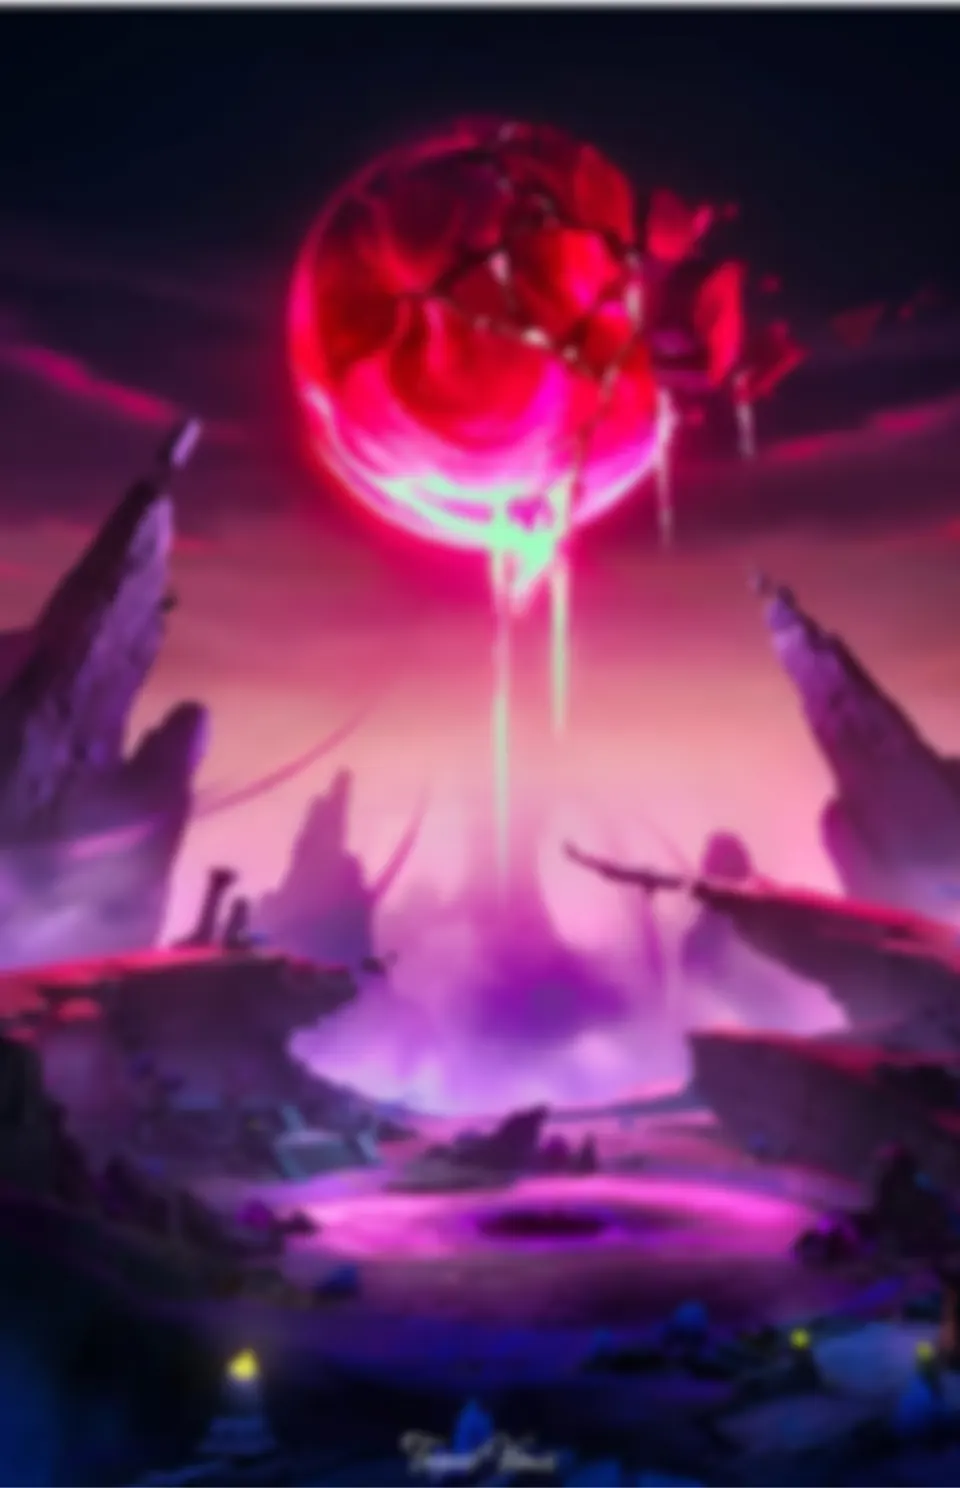
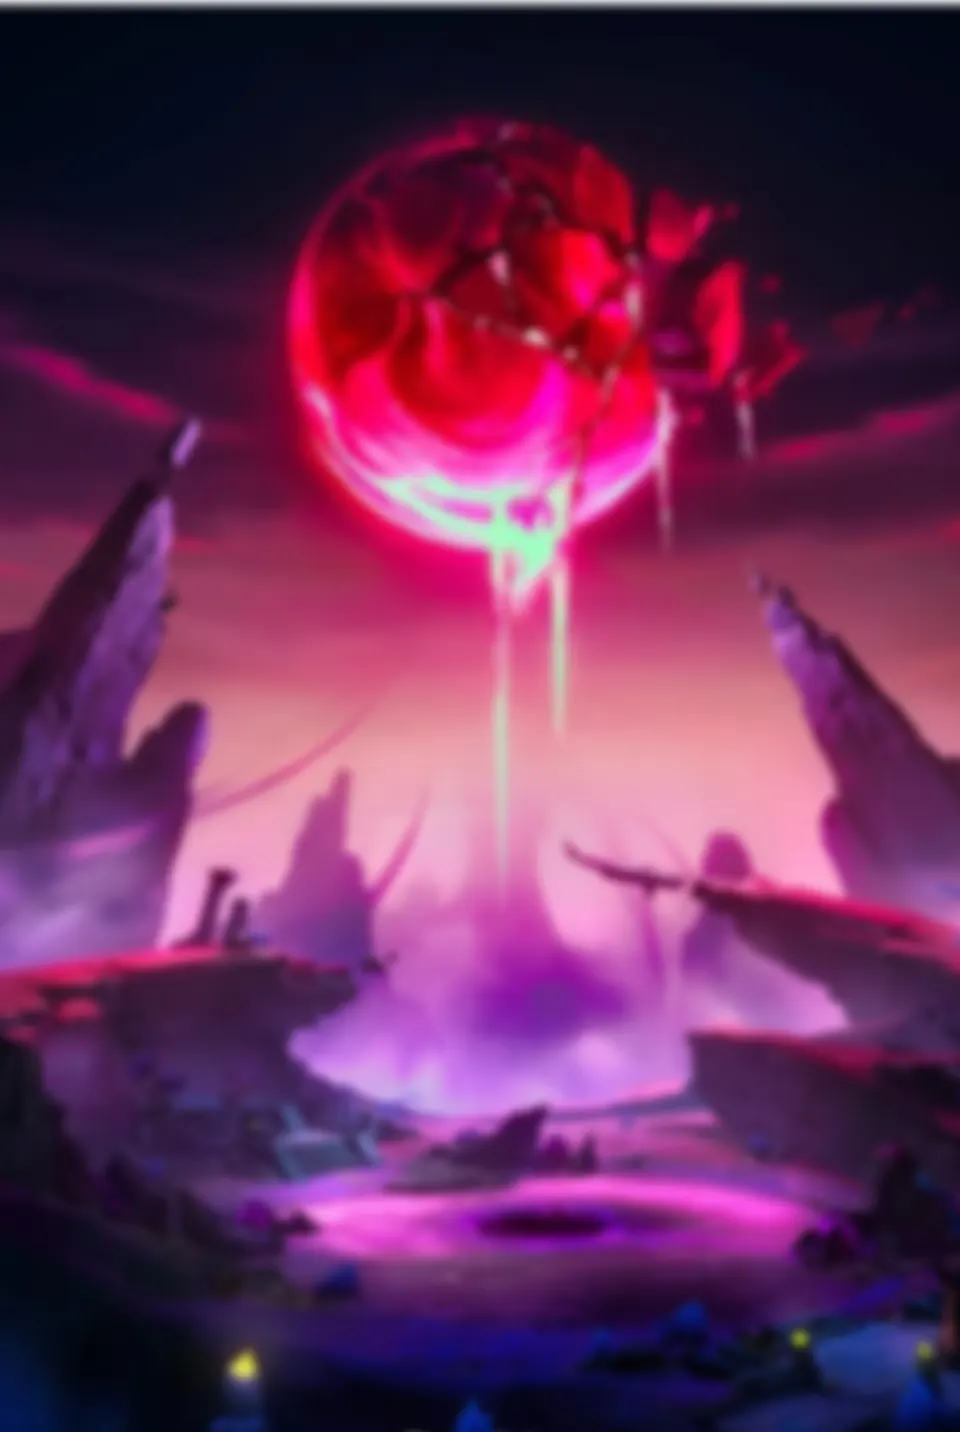
Хэллоуин: главная доведена до макета, правки визуальных багов
Масштаб главной под макет (заголовки, карточки, плитки 150px, ворота),
тыква в логотипе и мыши у надписи, подвал с орнаментом вместо снега,
светлые рамки карточек. Гирлянда больше не закрывает заголовки
внутренних страниц и строку фазы в баннере. Фон без водяного знака.

diff --git a/src/styles/season-halloween.css b/src/styles/season-halloween.css
@@ -6,6 +6,67 @@
   --top-glass: rgb(7 3 12 / .88); --feature-glass: linear-gradient(115deg, rgb(12 3 16 / .93), rgb(23 3 22 / .88) 55%, rgb(12 3 16 / .93)); --collection-glass: linear-gradient(115deg, rgb(30 6 34 / .55), rgb(20 4 22 / .6));
   --halloween-promo-bg: rgb(42 2 9 / .92); --halloween-pill-bg: rgb(40 4 20 / .85);
 }
+
+:root[data-season="halloween"] .shell .content:has(> .feature-band) { max-width: 1440px; }
+:root[data-season="halloween"] .shell .content:has(> .feature-band) > .home-title { margin: 2.5rem 0 1.6rem; font: 700 clamp(1.75rem, 3.4vw, 3rem)/1.2 var(--font-display); }
+:root[data-season="halloween"] .shell .content:has(> .feature-band) > .feature-band + .home-title { margin-top: 2.5rem; }
+:root[data-season="halloween"] .feature-band .features > h2 { margin: 2.5rem 0 1.6rem; color: var(--text); font: 700 clamp(1.75rem, 3.4vw, 3rem)/1.2 var(--font-display); }
+:root[data-season="halloween"] .feature-band .cards { max-width: 1204px; margin-inline: auto; gap: 20px; }
+:root[data-season="halloween"] .feature-band .cards .card { min-height: clamp(320px, 24vw, 390px); }
+:root[data-season="halloween"] .feature-band .cards .card h4 { font-size: 1.15rem; }
+:root[data-season="halloween"] .feature-band .cards .card .art { width: clamp(90px, 9vw, 140px); height: clamp(90px, 9vw, 140px); }
+:root[data-season="halloween"] .feature-band .cards .card .art.character { aspect-ratio: 1; }
+:root[data-season="halloween"] .feature-band .cards .card .btn { width: auto; min-width: 70%; max-width: 100%; padding: .7rem 1.6rem; font-size: .95rem; }
+:root[data-season="halloween"] .content:has(> .feature-band) .promo-card { max-width: 100%; min-height: clamp(220px, 24vw, 400px); overflow: visible; background: var(--halloween-promo-bg); border: 2px solid var(--halloween-pink); border-radius: 24px; color: var(--text); }
+:root[data-season="halloween"] .content:has(> .feature-band) .promo-copy { padding: clamp(1.2rem, 2.6vw, 2.6rem); }
+:root[data-season="halloween"] .content:has(> .feature-band) .promo-copy time { font-size: .85rem; }
+:root[data-season="halloween"] .content:has(> .feature-band) .promo-copy h3 { font-size: clamp(1.4rem, 2.6vw, 2.6rem); line-height: 1.2; }
+:root[data-season="halloween"] .content:has(> .feature-band) .promo-copy p { font-size: clamp(.95rem, 1.2vw, 1.25rem); }
+:root[data-season="halloween"] .content:has(> .feature-band) .promo-link { align-self: flex-start; font-size: clamp(.9rem, 1.15vw, 1.2rem); }
+:root[data-season="halloween"] .content:has(> .feature-band) .promo-card:hover { border-color: #ff477c; box-shadow: 0 0 0 1px rgb(251 3 79 / .3), 0 10px 28px rgb(251 3 79 / .2); }
+:root[data-season="halloween"] .collection-band .pill-title { padding: .8rem 1.8rem; font-size: clamp(1rem, 1.6vw, 1.6rem); }
+:root[data-season="halloween"] .collection-band .pill-title::before { width: 1.5em; height: 1.5em; }
+:root[data-season="halloween"] .collection-band { --tile: 150px; --tile-gap: 33px; --gate: clamp(64px, 5.2vw, 90px); }
+:root[data-season="halloween"] .collection-band .gate-list { flex: 0 1 calc(7 * var(--tile) + 6 * var(--tile-gap) + 12px + .45 * var(--tile) + var(--tile-gap)); max-width: calc(100% - 2 * var(--gate) - 2.4rem); }
+:root[data-season="halloween"] .collection-band .tile-track { gap: var(--tile-gap); }
+:root[data-season="halloween"] .collection-band .tile { flex-basis: var(--tile); width: var(--tile); height: var(--tile); }
+:root[data-season="halloween"] .collection-band .gate-carousel .gate { width: var(--gate); height: auto; aspect-ratio: 90 / 159; }
+:root[data-season="halloween"] .halloween-footer-edge { --halloween-footer-bg: #07030a; flex: none; width: 100%; height: clamp(80px, 9vw, 150px); border-bottom: 1px solid rgb(251 3 79 / .45); background: url('/img/season/halloween/divider.svg') center / auto 100% no-repeat, linear-gradient(180deg, transparent 45%, var(--halloween-footer-bg) 70%); }
+:root[data-season="halloween"] .shell > footer.footer { --text: #fff; --muted: rgb(255 255 255 / .7); --accent: #ed6a4d; --accent-text: #ed6a4d; --border: rgb(251 3 79 / .45); background: #07030a; border-top: 1px solid rgb(251 3 79 / .45); }
+:root[data-season="halloween"] .shell > footer.footer .f-col h2 { color: var(--text); }
+:root[data-season="halloween"] .shell > footer.footer .f-col a { color: var(--muted); }
+:root[data-season="halloween"] .shell > footer.footer .f-col a:hover { color: #ed6a4d; }
+:root[data-season="halloween"] .shell > footer.footer .f-bottom .f-logo { color: #ed6a4d; }
+:root[data-season="halloween"] .shell > .top .top-logo strong { position: relative; }
+:root[data-season="halloween"] .shell > .top .top-logo strong::before, :root[data-season="halloween"] .shell > .top .top-logo strong::after { content: ""; position: absolute; background: #ed6a4d; -webkit-mask: url('/img/season/halloween/bat.svg') center / contain no-repeat; mask: url('/img/season/halloween/bat.svg') center / contain no-repeat; }
+:root[data-season="halloween"] .shell > .top .top-logo strong::before { top: -6px; left: -14px; width: 26px; height: 10px; transform: rotate(-15deg); }
+:root[data-season="halloween"] .shell > .top .top-logo strong::after { right: -34px; bottom: 2px; width: 30px; height: 12px; transform: rotate(10deg); }
+:root[data-season="halloween"][data-theme="light"] .feature-band .card { background-image: url('/img/season/halloween/card-frame-light.svg'); color: #321323; --muted: rgb(50 19 35 / .7); }
+:root[data-season="halloween"][data-theme="light"] .content:has(> .feature-band) .promo-card { background: #fff4f7; color: #321323; }
+:root[data-season="halloween"][data-theme="light"] .shell > footer.footer { --text: #321323; --muted: rgb(50 19 35 / .7); background: #fbeef3; }
+:root[data-season="halloween"][data-theme="light"] .halloween-footer-edge { --halloween-footer-bg: #fbeef3; }
+@media (prefers-color-scheme: light) {
+  :root[data-season="halloween"]:not([data-theme]) .feature-band .card { background-image: url('/img/season/halloween/card-frame-light.svg'); color: #321323; --muted: rgb(50 19 35 / .7); }
+  :root[data-season="halloween"]:not([data-theme]) .content:has(> .feature-band) .promo-card { background: #fff4f7; color: #321323; }
+  :root[data-season="halloween"]:not([data-theme]) .shell > footer.footer { --text: #321323; --muted: rgb(50 19 35 / .7); background: #fbeef3; }
+  :root[data-season="halloween"]:not([data-theme]) .halloween-footer-edge { --halloween-footer-bg: #fbeef3; }
+}
+@media (min-width: 701px) {
+  :root[data-season="halloween"] .collection-band .gate-carousel { width: min(1600px, calc(100vw - 32px)); margin-left: 50%; transform: translateX(-50%); }
+}
+@media (min-width: 701px) and (max-width: 1100px) {
+  :root[data-season="halloween"] .collection-band { --tile: 120px; --tile-gap: 22px; }
+}
+@media (max-width: 700px) {
+  :root[data-season="halloween"] .collection-band { --tile: 72px; --tile-gap: 12px; }
+  :root[data-season="halloween"] .collection-band .gate-list { flex: 1 1 auto; max-width: 100%; }
+  :root[data-season="halloween"] .feature-band .cards .card { min-height: 260px; }
+  :root[data-season="halloween"] .feature-band .cards .card .art { width: 72px; height: 72px; }
+  :root[data-season="halloween"] .feature-band .cards .card .art.character { width: 72px; }
+  :root[data-season="halloween"] .feature-band .cards .card .btn { width: 100%; min-width: 0; padding: .5rem; font-size: .76rem; }
+  :root[data-season="halloween"] .feature-band .cards .card h4 { font-size: 1rem; }
+  :root[data-season="halloween"] .shell > .top .top-logo strong::before, :root[data-season="halloween"] .shell > .top .top-logo strong::after { display: none; }
+}
 :root[data-season="halloween"][data-theme="light"] {
   --bg: #f8eef5; --bg-deep: #f2e3ef; --surface: #fff5fb; --surface-2: #f4dce9; --surface-3: #e9c9dd; --border: #d98aa9;
   --text: #321323; --muted: rgb(50 19 35 / .7); --accent: var(--halloween-pink); --accent-text: var(--halloween-pink); --accent-ink: #1a0006; --accent-soft: rgb(251 3 79 / .12); --focus: var(--halloween-pink); color-scheme: light;
@@ -123,4 +184,15 @@
   :root[data-season="halloween"] .feature-band .tabs::before { display: none; }
   :root[data-season="halloween"] :is(.news-card, .calendar-card) .promo-visual { border-radius: 22px 22px 0 0; }
   :root[data-season="halloween"] .news-card::before, :root[data-season="halloween"] .news-card::after, :root[data-season="halloween"] .calendar-card::before { display: none; }
+}
+
+/* Гирлянда висит под шапкой поверх контента: на главной она ложится на баннер, на остальных страницах опускаем контент, чтобы не закрывала заголовок и крошки */
+:root[data-season="halloween"] .shell .content:not(:has(> .feature-band)) { padding-top: calc(1.8rem + 48px); }
+@media (max-width: 700px) {
+  :root[data-season="halloween"] .shell .content:not(:has(> .feature-band)) { padding-top: calc(1.2rem + 28px); }
+}
+/* Баннер выше, как в макете, и с отступом под гирлянду — иначе она закрывает строку фазы */
+@media (min-width: 701px) {
+  :root[data-season="halloween"] .carousel .slide { min-height: clamp(440px, 34vw, 600px); }
+  :root[data-season="halloween"] .carousel .copy { padding-top: calc(2rem + 56px); }
 }
